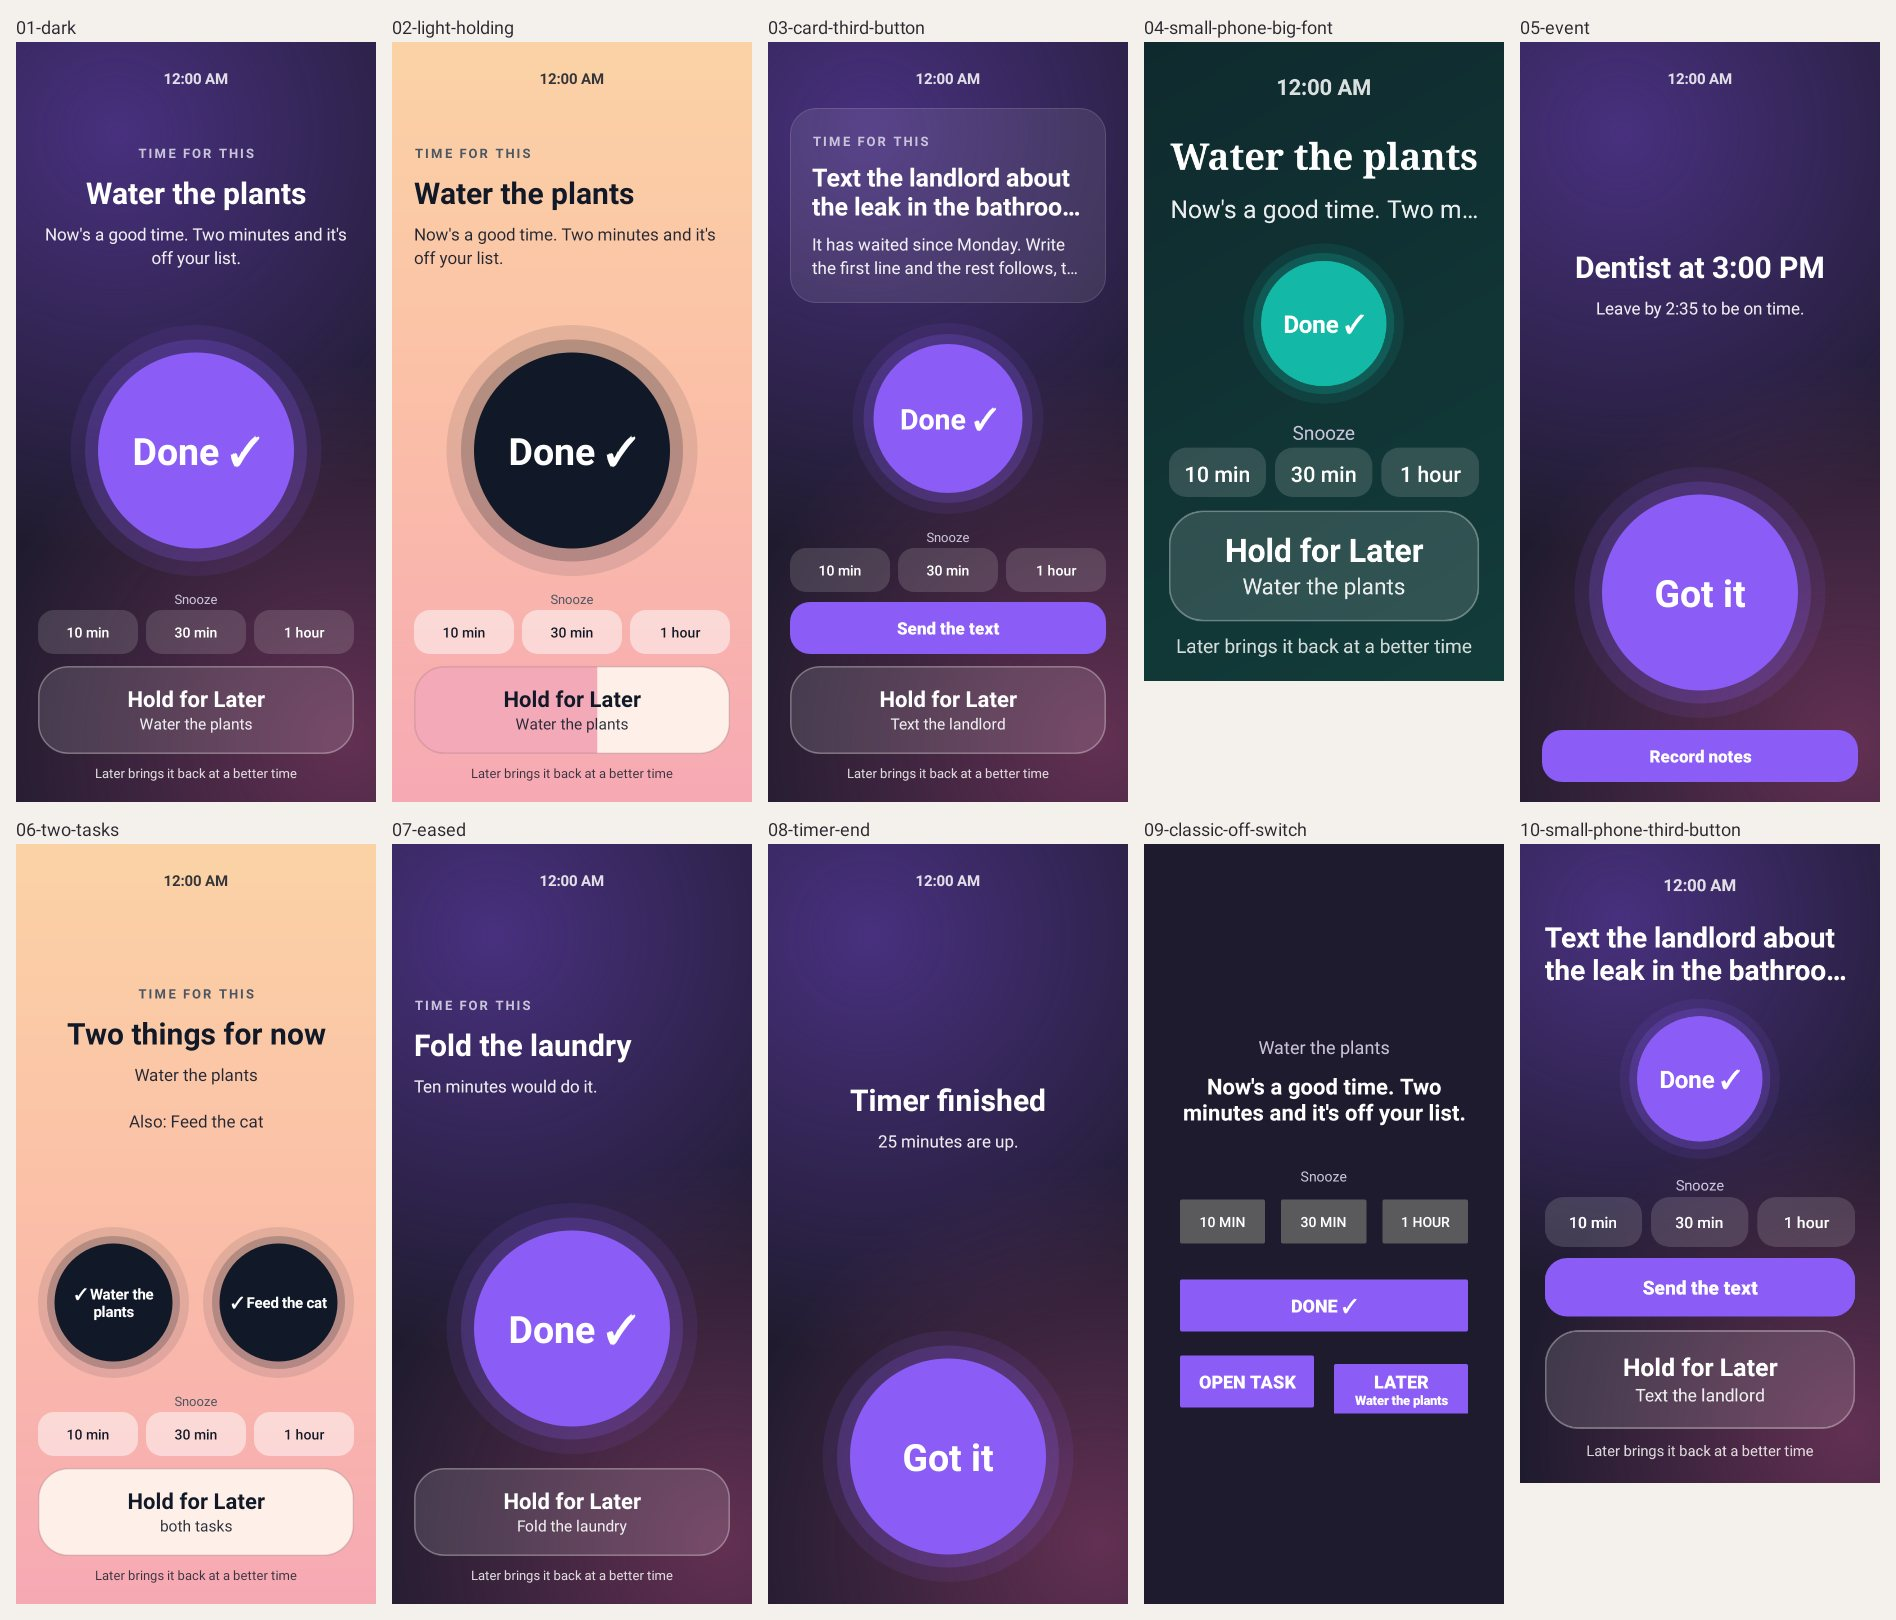
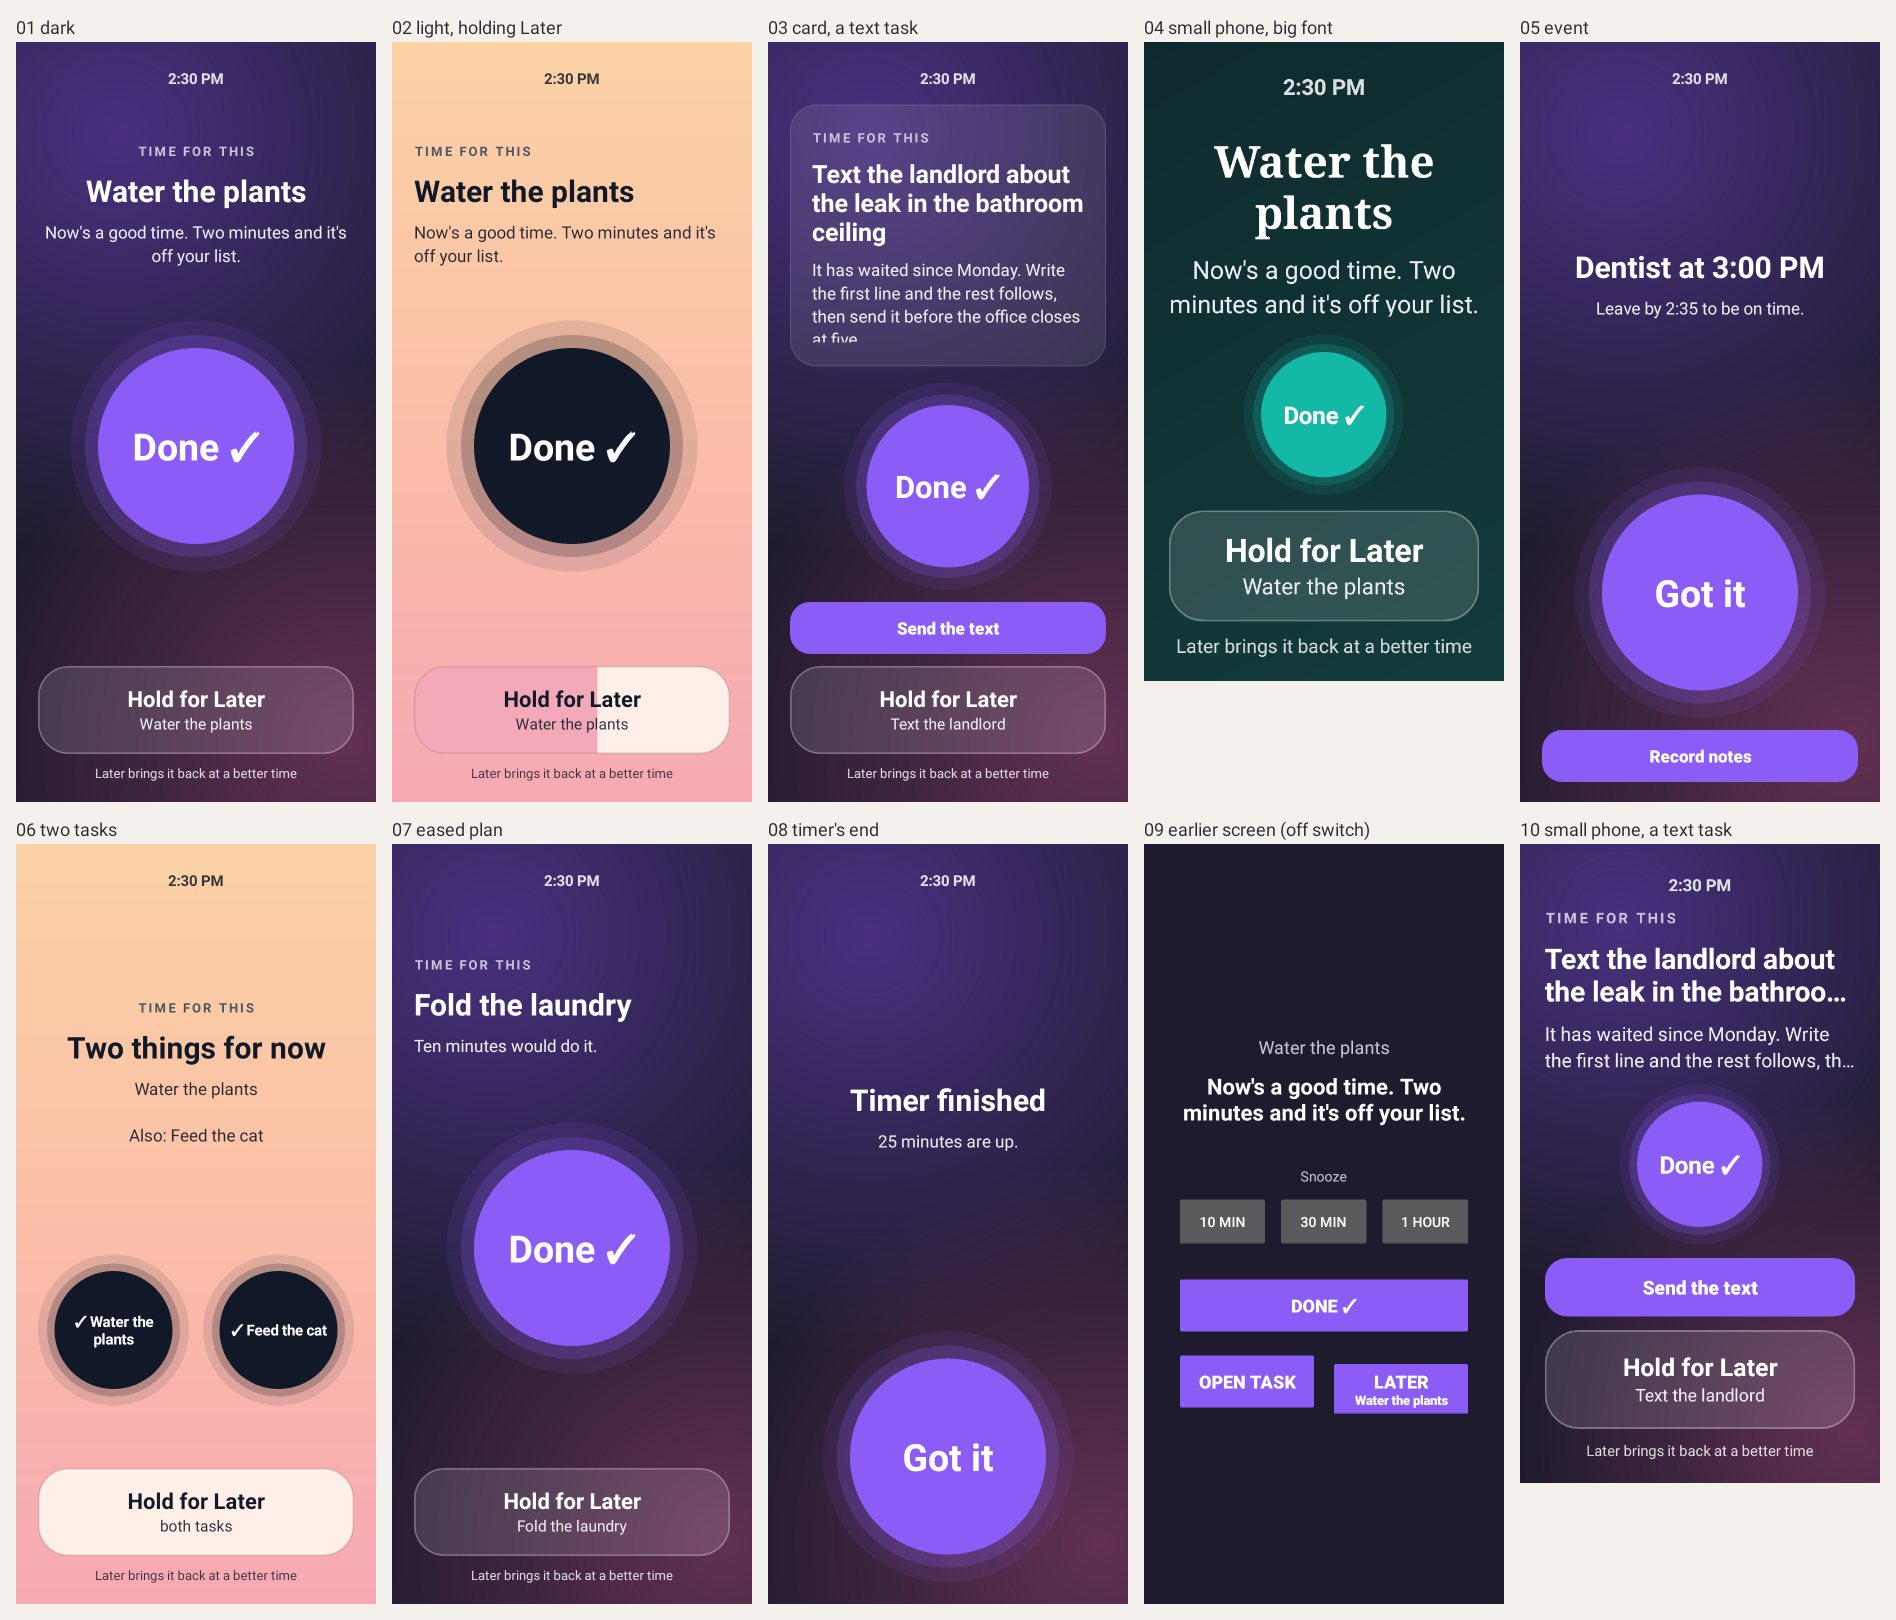
External agent changes

diff --git a/android/app/src/main/java/co/median/android/odxqpdy/AlarmActivity.java b/android/app/src/main/java/co/median/android/odxqpdy/AlarmActivity.java
@@ -501,6 +501,16 @@ public class AlarmActivity extends Activity {
             }
         }
 
+        if (v2 && actions == null) {
+            // The new screen gives a task two choices, Done and Later, and no
+            // Snooze (Anna, Nov 16 2026: "Only keep done and later. Like the
+            // first freaking design i approved."). The three slots stay in the
+            // layout for the app's own choices just above (a sprint's).
+            snooze10.setVisibility(android.view.View.GONE);
+            snooze30.setVisibility(android.view.View.GONE);
+            snooze60.setVisibility(android.view.View.GONE);
+            findViewById(R.id.alarm_snooze_label).setVisibility(android.view.View.GONE);
+        }
         // Same colours as the app is currently themed with (see AlarmTheme).
         try {
             if (v2) {
@@ -541,8 +551,9 @@ public class AlarmActivity extends Activity {
     // Pure adhd.", then, of the designs she was sent, "I like the big done, but
     // also the later is maybe too small" and "Your design is good too". One big
     // round Done to tap; a wide Later bar that has to be held, with the task's
-    // name on it; the earlier screen's choices are all still here (Snooze as a
-    // small row). Everything below only runs on the new layout.
+    // name on it. Two choices and no Snooze: "Only keep done and later. Like
+    // the first freaking design i approved." Everything below only runs on the
+    // new layout.
 
     /**
      * The new screen's own pieces in the theme's colours: the round button,
@@ -582,8 +593,10 @@ public class AlarmActivity extends Activity {
         });
         ((TextView) findViewById(R.id.alarm_later_hint)).setTextColor(text);
         ((TextView) findViewById(R.id.alarm_clock)).setTextColor(text);
-        // Snooze is three quiet rounded chips, and the third button a rounded
-        // bar in the theme's accent: neither competes with the round button.
+        // The three slots over the Later bar (only ever the app's own choices
+        // for a moment like a sprint: Snooze is not offered on this screen) are
+        // quiet rounded chips, and the third button a rounded bar in the
+        // theme's accent: neither competes with the round button.
         for (int id : new int[] { R.id.alarm_snooze_10, R.id.alarm_snooze_30, R.id.alarm_snooze_60 }) {
             Button chip = findViewById(id);
             chip.setBackgroundTintList(null);
@@ -726,6 +739,7 @@ public class AlarmActivity extends Activity {
         boolean k = false;
         int round = minRound;
         int wordsH = 0;
+        int wanted = 0;
         for (int i = 0; i < sizes.length; i++) {
             android.text.TextPaint paint = new android.text.TextPaint(big.getPaint());
             paint.setTextSize(sizes[i]);
@@ -763,6 +777,7 @@ public class AlarmActivity extends Activity {
             k = kk;
             round = r;
             wordsH = h;
+            wanted = want;
             if (tt >= Math.min(bigN, 4) && (underN == 0 || uu >= 1)) {
                 break;
             }
@@ -790,6 +805,22 @@ public class AlarmActivity extends Activity {
             side = Math.max(Math.round(112f * d), Math.min(Math.round(round * 0.86f), (content.getWidth()
                     - content.getPaddingLeft() - content.getPaddingRight() - gap) / 2));
             wordsH += round - side;
+        }
+        // With Later under it, the round button sits near the middle of the
+        // screen with air between it and the Later bar (as in the picture Anna
+        // approved), not pressed against the bar: half of whatever room the
+        // words don't need goes under it.
+        View holdBar = findViewById(R.id.alarm_later_hold);
+        int air = 0;
+        if (holdBar != null && holdBar.getVisibility() == View.VISIBLE) {
+            air = Math.max(0, Math.min((wordsH - wanted) / 2, Math.round(side * 0.32f)));
+        }
+        wordsH -= air;
+        LinearLayout.LayoutParams rowAt = (LinearLayout.LayoutParams) row.getLayoutParams();
+        if (rowAt.bottomMargin != air) {
+            rowAt.bottomMargin = air;
+            row.setLayoutParams(rowAt);
+            changed = true;
         }
         if (done.getLayoutParams().width != side) {
             roundPx = round;

diff --git a/android/app/src/main/java/co/median/android/odxqpdy/AlarmService.java b/android/app/src/main/java/co/median/android/odxqpdy/AlarmService.java
@@ -429,7 +429,13 @@ public class AlarmService extends Service {
         // Re-posting it (a second alarm came due while this rang) must not
         // re-alert or re-open anything.
         b.setOnlyAlertOnce(true);
-        if (!e.noSnooze && !e.event && !e.eased) {
+        // The alarm screen from build 49 on gives a task two choices, Done and
+        // Later, and no Snooze (Anna, Nov 16 2026: "Only keep done and later.
+        // Like the first freaking design i approved."). Its banner says the
+        // same. With the new screen switched off (AlarmLook), the banner is
+        // the earlier one too.
+        boolean twoChoices = AlarmLook.useNew(ctx) && AlarmActivity.canMarkDone(e, e.taskId);
+        if (!e.noSnooze && !e.event && !e.eased && !twoChoices) {
             b.addAction(0, ctx.getString(R.string.alarm_action_snooze_10), snooze);
         }
         // Ringing together with other tasks: Done is picked on the alarm screen,
@@ -445,7 +451,7 @@ public class AlarmService extends Service {
                     PendingIntent.FLAG_UPDATE_CURRENT | PendingIntent.FLAG_IMMUTABLE);
             b.addAction(0, ctx.getString(R.string.alarm_action_done), donePi);
         }
-        if (e.eased && AlarmActivity.canMarkDone(e, e.taskId)) {
+        if ((e.eased || twoChoices) && AlarmActivity.canMarkDone(e, e.taskId)) {
             // The eased plan's alarm: Done and Later only, on the banner as on its
             // screen (Anna, Oct 22 2026). Later stops the ring the way Stop does.
             b.addAction(0, ctx.getString(R.string.alarm_action_later),

diff --git a/docs/alarm-screen/README.md b/docs/alarm-screen/README.md
@@ -1,6 +1,7 @@
 # The phone's alarm screen, drawn from the real code
 
-- `alarm-screen-build49.jpg`: the alarm screen from Android build 49 on, in ten situations (dark and light theme, a text task with its third button, a small phone with a large font, an event, two tasks ringing together, the eased plan's alarm, a timer's end, the earlier screen that the off switch brings back, a small phone with every button showing). Drawn on Nov 16 2026 by running `AlarmActivity` with `activity_alarm_v2.xml` in a Robolectric test, not by hand.
+- `alarm-screen-build49.jpg`: the alarm screen from Android build 49 on, in ten situations (dark and light theme, a text task with its third button, a small phone with a large font, an event, two tasks ringing together, the eased plan's alarm, a timer's end, the earlier screen that the off switch brings back, a small phone with a text task). A task's alarm has two choices, Done and Later, and no Snooze (Anna, Nov 16 2026: "Only keep done and later. Like the first freaking design i approved."). Drawn by running `AlarmActivity` with `activity_alarm_v2.xml` in a Robolectric test, not by hand.
 - `store-slide-1-screen.jpg`, `store-slide-4-screen-plain.jpg`: the two screens used in the Play Store pictures 1 and 4.
+- `harness/`: how the pictures are made, and how the app is built to check a change to the phone code. From the app root in the Base44 sandbox: `python3 docs/alarm-screen/harness/setup.py` (unpacks a JDK and the Android SDK pieces under `/tmp/ab` and makes a build COPY of `android/` there; never build inside `/app`), then `/tmp/ab/build.sh :app:assembleDebug :app:lintVitalRelease :app:minifyReleaseWithR8 :app:testDebugUnitTest --tests '*AlarmShotTest*'`. Pictures land in `/tmp/ab/shots`. Change the phone code in the copy, build, look at the picture, and only then copy the changed files into `android/`.
 
-How to draw them again after a change: see RULES.md, "The phone's alarm screen from build 49" (the row's last sentence). Look at the picture before describing the screen to anyone.
+Look at the picture before describing the screen to anyone.
